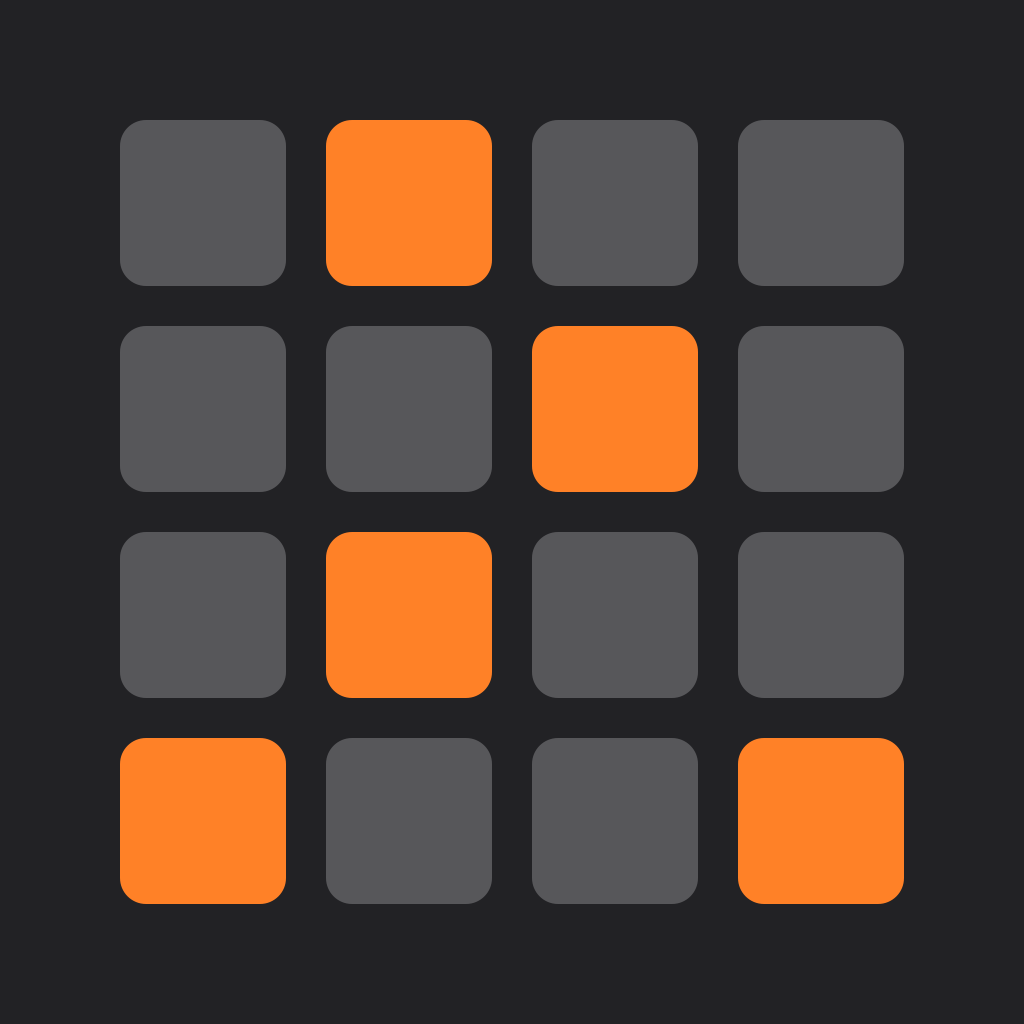
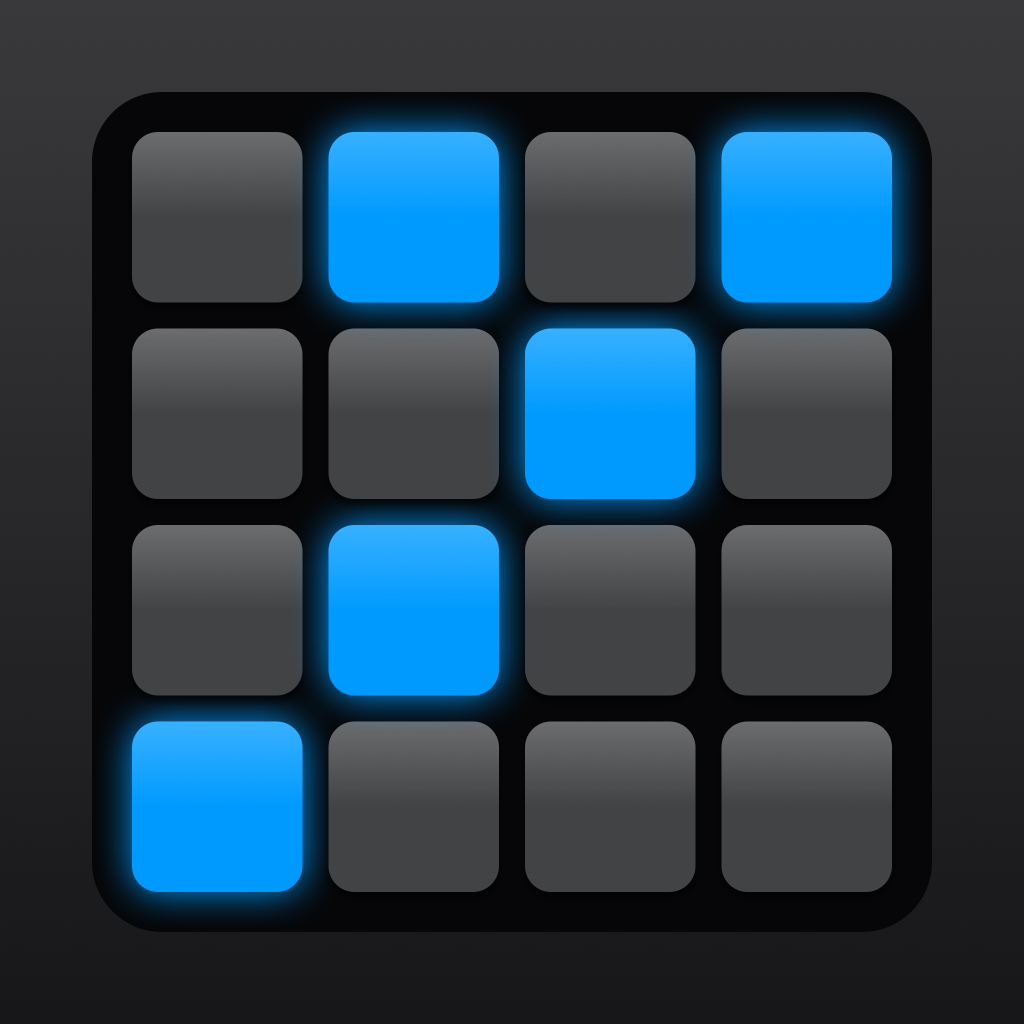
Manual and screenshots for 0.37.0: new look, pitch before chopping, chop fixes

diff --git a/MANUAL.md b/MANUAL.md
@@ -1,21 +1,23 @@
 # ChopPad manual
 
-For version 0.36.0. ChopPad is laid out like a hardware pad sampler: one main screen with three keys above it (B1–B3) and three knobs below it (K1–K3), a DATA WHEEL, a FADER, and 16 pads. Everything happens on the one screen: recording, kits, chopping and the song list are pages of it, not separate windows.
+For version 0.37.0. ChopPad is laid out like a hardware pad sampler: one main screen with three keys above it (B1–B3) and three knobs below it (K1–K3), a DATA WHEEL, a FADER, and 16 pads. Everything happens on the one screen: recording, kits, chopping and the song list are pages of it, not separate windows.
 
 ## The layout
 
 **iPhone, portrait** (top to bottom):
 
-- The **FADER** on the left of the screen. **B1–B3** above the screen choose what the screen's page shows; their names change with the page.
+- The **FADER** on the left of the screen. **B1–B3** above the screen choose what the screen's page shows; their names change with the page. The knobs **K1–K3** sit under the screen.
 - On the right of the screen: **SAMPLE SELECT**, **TAP TEMPO**, the **DATA WHEEL** and **− / +**.
-- **MODE keys** (SAMPLE, SEQ, PAD FX, KNOB FX), the knobs **K1–K3**, and the **PAD PLAY keys** (CHOP, MUTE, LOOP, 16 LEVELS).
-- **SHIFT, PAD BANK, ERASE, NOTE REPEAT**.
-- **SAMPLE RECORD, SEQ RECORD, STOP, PLAY**.
+- Two rows of keys. Top: ERASE, NOTE REPEAT, SAMPLE, SEQ, CHOP, MUTE, SAMPLE RECORD, SEQ RECORD. Bottom: **SHIFT**, PAD BANK, PAD FX, KNOB FX, LOOP, 16 LEVELS, STOP, PLAY. SHIFT is always bottom left, under your left thumb.
 - The **16 pads**, square, across the full width, numbered 1–16 from the bottom left.
 
-**iPhone, landscape** (with the notch on the left): SHIFT, PAD BANK, the FADER, ERASE and NOTE REPEAT run down the left edge, the screen with everything around it is in the middle, and the pads fill the right side from top to bottom.
+**iPhone, landscape:** the screen with everything around it and the two rows of keys on the left, the pads filling the right side from top to bottom.
 
-**iPad**: the same keys, arranged to fill the bigger screen with square pads. Portrait: the screen, keys and knobs across the top, then SHIFT, PAD BANK, the FADER, ERASE and NOTE REPEAT down the left of the pads. Landscape: SHIFT, PAD BANK, the FADER, ERASE and NOTE REPEAT down the left, then the screen with SAMPLE SELECT, TAP TEMPO, the wheel and − / + beside it, the MODE keys, knobs and PAD PLAY keys, and the transport row, with the square pads on the right. The status bar is hidden on iPad.
+**iPad, portrait:** across the top, the 16 keys in a block on the left (MODE and PAD PLAY keys above, SHIFT, PAD BANK, ERASE, NOTE REPEAT and the transport keys below), the screen with B1–B3 and the knobs in the middle, and SAMPLE SELECT, TAP TEMPO, the FADER, the wheel and − / + on the right. The pads fill the width below.
+
+**iPad, landscape:** the pads fill the right side. On the left, top to bottom: B1–B3, the screen, the knobs, a row with the FADER, SAMPLE SELECT, TAP TEMPO, the wheel and − / +, then the block of 16 keys with SHIFT bottom left. The status bar is hidden on iPad.
+
+**Colors:** keys that belong together share a color: the MODE keys violet, the PAD PLAY keys blue, SAMPLE SELECT, TAP TEMPO and − / + teal, the RECORD keys red, STOP and PLAY light grey (PLAY turns green while playing), SHIFT light grey. A key lights up while you press it. The pads are grey rubber with a light under them that shows what they do: the bank's color for a pad with a sound (none when empty), bright when hit; white for the pad SAMPLE SELECT will fill; violet for chop slices; yellow (unmuted) and red (muted) in MUTE; green for sequences; warm white for a SHIFT setting that is on.
 
 Keys react as soon as you touch them, like real buttons, and you can hold several keys and pads at once. Messages about what just happened (for example "COPIED A1 → A2") appear for a moment in the middle of the screen.
 
@@ -94,7 +96,7 @@ To save the trimmed part of a pad as its own sample, press **SHIFT + SAMPLE SELE
 
 A song longer than 30 seconds (from SONGS or FILES) opens in **PICK PART** first, so you can choose the part to sample before chopping.
 
-1. Press **PLAY** to listen; the white line is the playhead. Turn the wheel or tap the waveform to move it.
+1. Press **PLAY** to listen; the yellow line is the playhead. Turn the wheel or tap the waveform to move it.
 2. Press **B1 START HERE** and **B2 END HERE** at the playhead, or set **K1 START** and **K2 END** directly. **K3 MOVE** slides the whole part along the song.
 3. To zoom in, hold SHIFT and turn the wheel (around the playhead), pinch the waveform, or hold SHIFT and turn K1, K2 or K3 to zoom around START, END or the playhead. Drag sideways to scroll while zoomed, and tap **ALL** to see the whole song again. The wheel moves the playhead in finer steps the closer you zoom.
 4. Press **B3 CHOP IT**. Only that part opens in CHOP, and only that part is saved when you put it on the pads.
@@ -105,14 +107,18 @@ Shorter sounds go straight onto the selected pad.
 
 1. Select a pad with a sound (or an empty pad, then pick a song) and press **CHOP**.
 2. It opens in MANUAL, ready to chop live on the pads (see below). Turn **K3** for another type: THRESHOLD (at every hit), REGIONS 4 / 8 / 16 (even slices) or MANUAL.
-3. Tap a pad to hear its slice. **B1 EXTRACT** copies the selected slice to the first empty pad, **B2 SPLIT** cuts it in two, and **B3 MERGE** joins it with the next. Hold ERASE and tap a pad to remove that slice.
+3. Tap a pad to hear its slice. **B1 EXTRACT** copies the selected slice to the first empty pad, **B2 SPLIT** cuts it in two, and **B3 MERGE** joins it with the one before. Hold ERASE and tap a pad to remove that slice.
 4. Tap **→ PADS** to put every slice on the pads of the current bank, from pad 1 up (in MANUAL, from the first pad you hit). This replaces what's on those pads.
 
+**Pitch before chopping:** set the pitch on the pad first (TUNE page, K1 SEMI and K2 FINE), then press CHOP. The pitch shows next to the name on the CHOP screen, you chop at that pitch, and the slices keep it: their sound is saved pitched, so their own TUNE starts at 0.
+
 **MANUAL (lazy chop):**
-1. Turn the wheel to move the playhead (the white line) to where the first slice should start. Hold SHIFT for finer steps. You can also tap the waveform.
+1. Turn the wheel to move the playhead (the yellow line) to where the first slice should start. Hold SHIFT for finer steps. You can also tap the waveform.
 2. Hit a pad: slice 1 starts there and the sample starts playing.
 3. Hit the next pads up, in order, wherever new slices should start (e.g. 13, 14, 15, 16).
 4. Press **STOP**, then tap **→ PADS**. Each slice goes on the pad you hit for it.
+
+Hitting a pad that already has a slice jumps the song back to it, so you can redo a cue. A new pad always chops at the playhead, even behind your last chop; the slices stay in time order, so it splits the slice it lands in. If a pad can't chop, the screen says why (TOO CLOSE TO A CHOP, BEFORE THE FIRST CHOP, ALL PADS USED).
 
 If you're late on a hit, tap that pad again while it plays: it jumps back to that slice's start. **SHIFT + −** undoes the last chop change, and **SHIFT + +** redoes it.
 
